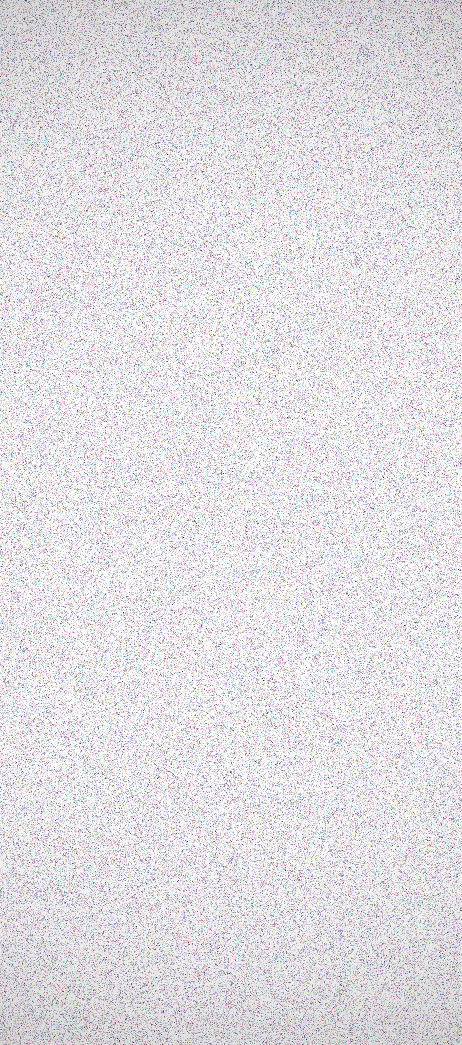
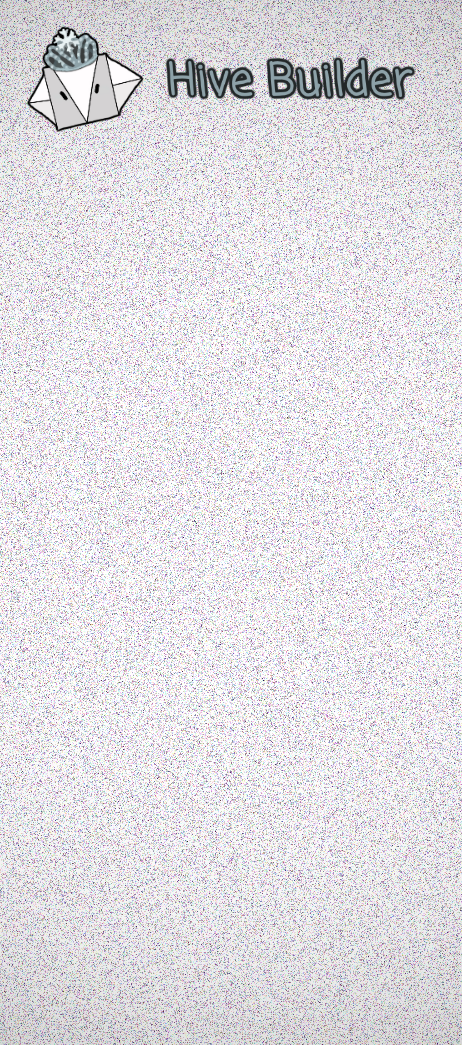
:bento: Update default background to include trademark

Changed region(s): [[0.0606, 0.0, 0.303, 0.1225], [0.5758, 0.0306, 0.9091, 0.1225], [0.3636, 0.0306, 0.5455, 0.1225]]

diff --git a/hiveplugin/hive.go b/hiveplugin/hive.go
@@ -58,8 +58,6 @@ func RenderHiveImage(h *hive.Hive, showHiveNumbers bool, slotsOnTop bool, skipHi
 	bg, _ := gg.LoadImage(loaders.GetHiveBackgroundImagePath(background))
 	hiveImage := gg.NewContextForImage(bg)
 	hiveImage.DrawImageAnchored(img, hiveImage.Width()/2, hiveImage.Height()/2, 0.5, 0.5)
-	//tmImage, _ := gg.LoadPNG("assets/trademark.png")
-	//hiveImage.DrawImageAnchored(tmImage, hiveImage.Width()/2, 8, 0.5, 0)
 	return common.ImageToPipe(hiveImage.Image())
 }
 
